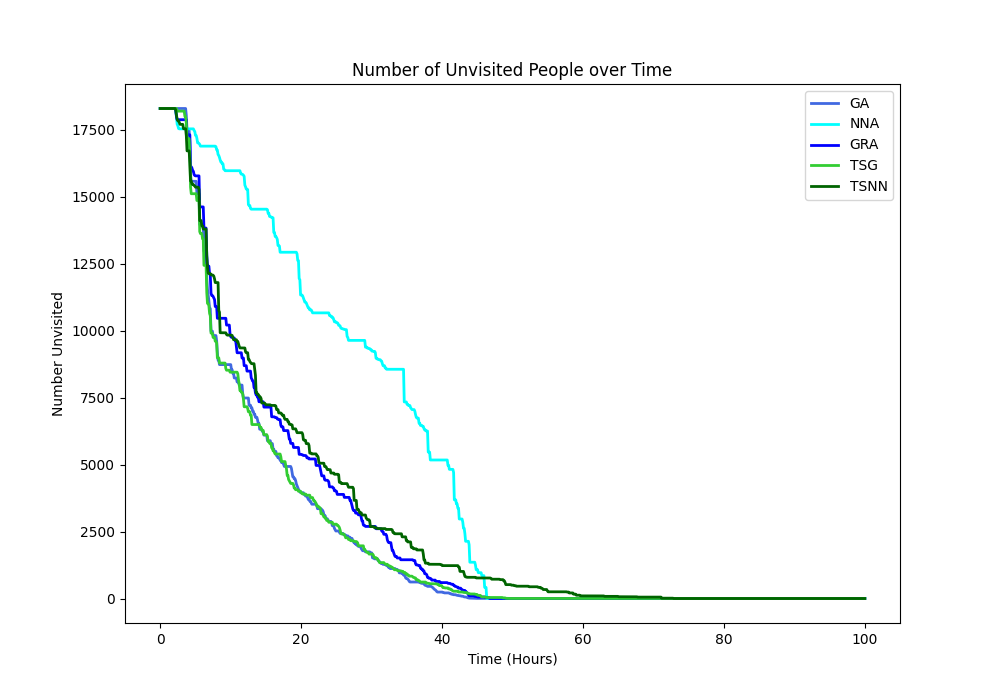
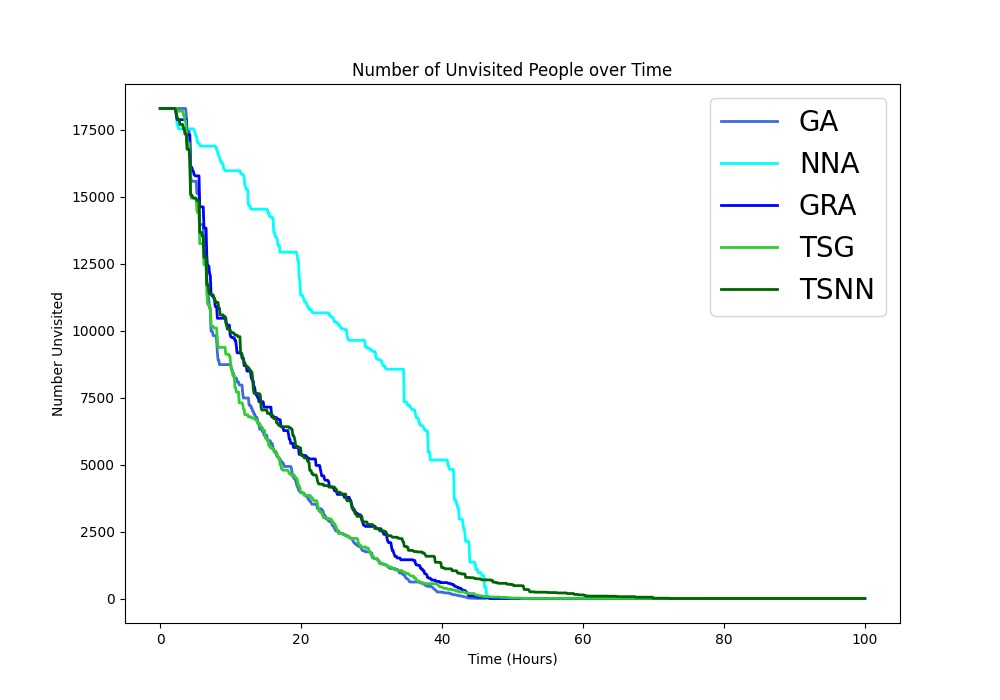
fixed champaign plot

diff --git a/champaign.py b/champaign.py
@@ -113,173 +113,173 @@ def main() -> None:
     # )
 
     # # Parameters for Graphs and Partitions
-    # num_graphs: int = 25
-    # num_nodes: int = 201  # 20 agents * 10 nodes per agent + start
+    num_graphs: int = 25
+    num_nodes: int = 201  # 20 agents * 10 nodes per agent + start
     num_agents: int = 20
 
-    # # Creating smaller graph bank
-    # graph_bank: list[Graph] = []
-    # distances: dict[tuple[int, int], float] = {}
-    # for count in range(num_graphs):
-    #     print(count)
+    # Creating smaller graph bank
+    graph_bank: list[Graph] = []
+    distances: dict[tuple[int, int], float] = {}
+    for count in range(num_graphs):
+        print(count)
 
-    #     # Choose random nodes to be damaged
-    #     g = Graph(num_nodes)
+        # Choose random nodes to be damaged
+        g = Graph(num_nodes)
 
-    #     # Initializing a bunch of empty nodes and edges is faster than calling add_edge
-    #     print("Initializing adjacency lists")
-    #     for i in range(num_nodes):  # make complete
-    #         g.adjacen_list[i] = list(range(num_nodes))
-    #     print("Initializing edge weights")
-    #     for i in range(num_nodes):
-    #         g.edge_weight[i] = [-1.0 for _ in range(num_nodes)]
+        # Initializing a bunch of empty nodes and edges is faster than calling add_edge
+        print("Initializing adjacency lists")
+        for i in range(num_nodes):  # make complete
+            g.adjacen_list[i] = list(range(num_nodes))
+        print("Initializing edge weights")
+        for i in range(num_nodes):
+            g.edge_weight[i] = [-1.0 for _ in range(num_nodes)]
 
-    #     print(f"Choosing {num_nodes} damaged nodes")
-    #     damaged: list[int] = list(populated)
-    #     random.shuffle(damaged)
-    #     damaged = damaged[:num_nodes]
-    #     print("Adding node weights to g")
-    #     for i in range(1, num_nodes):
-    #         g.node_weight[i] = G.nodes[damaged[i]]["pop"]
-    #     g.node_weight[0] = 0
+        print(f"Choosing {num_nodes} damaged nodes")
+        damaged: list[int] = list(populated)
+        random.shuffle(damaged)
+        damaged = damaged[:num_nodes]
+        print("Adding node weights to g")
+        for i in range(1, num_nodes):
+            g.node_weight[i] = G.nodes[damaged[i]]["pop"]
+        g.node_weight[0] = 0
 
-    #     print("Finding shortest path travel times in hours")
-    #     for u in range(num_nodes):
-    #         for v in range(u + 1, num_nodes):
-    #             u_prime, v_prime = damaged[u], damaged[v]
-    #             if (u_prime, v_prime) in distances:
-    #                 time = distances[(u_prime, v_prime)]
-    #             else:
-    #                 time = nx.shortest_path_length(
-    #                     G, u_prime, v_prime, weight="travel_time"
-    #                 )
-    #                 distances[(u_prime, v_prime)] = time
-    #             g.edge_weight[u][v] = time / (3600)
-    #             g.edge_weight[v][u] = time / (3600)
+        print("Finding shortest path travel times in hours")
+        for u in range(num_nodes):
+            for v in range(u + 1, num_nodes):
+                u_prime, v_prime = damaged[u], damaged[v]
+                if (u_prime, v_prime) in distances:
+                    time = distances[(u_prime, v_prime)]
+                else:
+                    time = nx.shortest_path_length(
+                        G, u_prime, v_prime, weight="travel_time"
+                    )
+                    distances[(u_prime, v_prime)] = time
+                g.edge_weight[u][v] = time / (3600)
+                g.edge_weight[v][u] = time / (3600)
 
-    #     print("Adding repair times")
-    #     # Ranges from "Predicting Outage Restoration ..."
-    #     for v in range(num_nodes):
-    #         pop: int = g.node_weight[v]
-    #         if pop <= 10:
-    #             repair_time: float = random.uniform(2, 4)
-    #         elif pop <= 100:
-    #             repair_time = random.uniform(2, 6)
-    #         elif pop <= 1000:
-    #             repair_time = random.uniform(3, 8)
-    #         else:
-    #             repair_time = random.uniform(5, 10)
-    #         for u in range(num_nodes):
-    #             if u != v:
-    #                 g.edge_weight[u][v] += repair_time
-    #     graph_bank.append(g)
-    #     print(Bcolors.CLEAR_LAST_LINE)
-    #     print(Bcolors.CLEAR_LAST_LINE)
-    #     print(Bcolors.CLEAR_LAST_LINE)
-    #     print(Bcolors.CLEAR_LAST_LINE)
-    #     print(Bcolors.CLEAR_LAST_LINE)
-    #     print(Bcolors.CLEAR_LAST_LINE)
-    #     print(Bcolors.CLEAR_LAST_LINE)
+        print("Adding repair times")
+        # Ranges from "Predicting Outage Restoration ..."
+        for v in range(num_nodes):
+            pop: int = g.node_weight[v]
+            if pop <= 10:
+                repair_time: float = random.uniform(2, 4)
+            elif pop <= 100:
+                repair_time = random.uniform(2, 6)
+            elif pop <= 1000:
+                repair_time = random.uniform(3, 8)
+            else:
+                repair_time = random.uniform(5, 10)
+            for u in range(num_nodes):
+                if u != v:
+                    g.edge_weight[u][v] += repair_time
+        graph_bank.append(g)
+        print(Bcolors.CLEAR_LAST_LINE)
+        print(Bcolors.CLEAR_LAST_LINE)
+        print(Bcolors.CLEAR_LAST_LINE)
+        print(Bcolors.CLEAR_LAST_LINE)
+        print(Bcolors.CLEAR_LAST_LINE)
+        print(Bcolors.CLEAR_LAST_LINE)
+        print(Bcolors.CLEAR_LAST_LINE)
 
-    # print("Generating initial partitions")
-    # partition_bank: list[list[set[int]]] = benchmark.generate_agent_partitions(
-    #     graph_bank, num_agents
-    # )
+    print("Generating initial partitions")
+    partition_bank: list[list[set[int]]] = benchmark.generate_agent_partitions(
+        graph_bank, num_agents
+    )
 
-    # # save a representative graph
-    # Graph.to_file(graph_bank[0], "results/champaign/champaign_rep.json")
+    # save a representative graph
+    Graph.to_file(graph_bank[0], "results/champaign/champaign_rep.json")
 
-    # # Mass benchmark of graphs given bank
-    # # (0.0, 0.5) should be a big enough range for calculated travel times
-    # benchmark_results: list[DefaultDict[Any, Any]] = benchmark.mass_benchmark(
-    #     graph_bank, partition_bank, (0.0, 0.5)
-    # )
+    # Mass benchmark of graphs given bank
+    # (0.0, 0.5) should be a big enough range for calculated travel times
+    benchmark_results: list[DefaultDict[Any, Any]] = benchmark.mass_benchmark(
+        graph_bank, partition_bank, (0.0, 0.5)
+    )
 
-    # # Write to files
-    # names: list[str] = [
-    #     "maximums",
-    #     "wait_times",
-    #     "times",
-    #     "minimums",
-    #     "sums",
-    #     "ranges",
-    #     "averages",
-    #     "bests",
-    # ]
-    # for res, name in zip(benchmark_results, names):
-    #     with open(f"results/champaign/{name}.json", "w", encoding="utf-8") as outfile:
-    #         json.dump(res, outfile)
+    # Write to files
+    names: list[str] = [
+        "maximums",
+        "wait_times",
+        "times",
+        "minimums",
+        "sums",
+        "ranges",
+        "averages",
+        "bests",
+    ]
+    for res, name in zip(benchmark_results, names):
+        with open(f"results/champaign/{name}.json", "w", encoding="utf-8") as outfile:
+            json.dump(res, outfile)
 
-    # # Box Plot for sum of weighted latencies
-    # with open("results/champaign/sums.json", encoding="utf-8") as file:
-    #     sums: dict[str, list[float]] = json.load(file)
+    # Box Plot for sum of weighted latencies
+    with open("results/champaign/sums.json", encoding="utf-8") as file:
+        sums: dict[str, list[float]] = json.load(file)
 
-    # results: list[str] = [
-    #     "Greedy Assignment",
-    #     "Nearest Neighbor Assignment",
-    #     "Greedy + Random (25%) Assignment",
-    #     "Transfers and Swaps Greedy",
-    #     "Transfers and Swaps Nearest Neighbor",
-    # ]
+    results: list[str] = [
+        "Greedy Assignment",
+        "Nearest Neighbor Assignment",
+        "Greedy + Random (25%) Assignment",
+        "Transfers and Swaps Greedy",
+        "Transfers and Swaps Nearest Neighbor",
+    ]
 
-    # boxes: list[list[float]] = [sums[name] for name in results]
-    # colors: list[str] = ["royalblue", "aqua", "blue", "limegreen", "darkgreen"]
+    boxes: list[list[float]] = [sums[name] for name in results]
+    colors: list[str] = ["royalblue", "aqua", "blue", "limegreen", "darkgreen"]
 
-    # fig, ax = plt.subplots(figsize=(6, 6))
+    fig, ax = plt.subplots(figsize=(6, 6))
 
-    # bp = ax.boxplot(boxes, patch_artist=True)
-    # for patch, color in zip(bp["boxes"], colors):
-    #     patch.set_facecolor(color)
-    # for median in bp["medians"]:
-    #     median.set(color="black", linewidth=3)
+    bp = ax.boxplot(boxes, patch_artist=True)
+    for patch, color in zip(bp["boxes"], colors):
+        patch.set_facecolor(color)
+    for median in bp["medians"]:
+        median.set(color="black", linewidth=3)
 
-    # frame1 = plt.gca()
-    # frame1.axes.xaxis.set_ticklabels(["GA", "NNA", "GRA", "TSG", "TSNN"])
-    # plt.title("Sum of Weighted Latencies (Champaign)")
-    # plt.gcf().axes[0].yaxis.get_major_formatter().set_scientific(False)
-    # fig.savefig("results/champaign/total_work", bbox_inches="tight")
+    frame1 = plt.gca()
+    frame1.axes.xaxis.set_ticklabels(["GA", "NNA", "GRA", "TSG", "TSNN"])
+    plt.title("Sum of Weighted Latencies (Champaign)")
+    plt.gcf().axes[0].yaxis.get_major_formatter().set_scientific(False)
+    fig.savefig("results/champaign/total_work", bbox_inches="tight")
 
-    # # Bar Plot for average wait times
-    # with open("results/champaign/wait_times.json", encoding="utf-8") as file:
-    #     wait: dict[str, list[float]] = json.load(file)
+    # Bar Plot for average wait times
+    with open("results/champaign/wait_times.json", encoding="utf-8") as file:
+        wait: dict[str, list[float]] = json.load(file)
 
-    # boxes = [wait[name] for name in results]
-    # colors = ["royalblue", "aqua", "blue", "limegreen", "darkgreen"]
+    boxes = [wait[name] for name in results]
+    colors = ["royalblue", "aqua", "blue", "limegreen", "darkgreen"]
 
-    # fig, ax = plt.subplots(figsize=(6, 6))
+    fig, ax = plt.subplots(figsize=(6, 6))
 
-    # bp = ax.boxplot(boxes, patch_artist=True)
-    # for patch, color in zip(bp["boxes"], colors):
-    #     patch.set_facecolor(color)
-    # for median in bp["medians"]:
-    #     median.set(color="black", linewidth=3)
+    bp = ax.boxplot(boxes, patch_artist=True)
+    for patch, color in zip(bp["boxes"], colors):
+        patch.set_facecolor(color)
+    for median in bp["medians"]:
+        median.set(color="black", linewidth=3)
 
-    # frame1 = plt.gca()
-    # frame1.axes.xaxis.set_ticklabels(["GA", "NNA", "GRA", "TSG", "TSNN"])
-    # plt.title("Average Wait Time (Champaign)")
-    # plt.gcf().axes[0].yaxis.get_major_formatter().set_scientific(False)
-    # fig.savefig("results/champaign/wait_time", bbox_inches="tight")
+    frame1 = plt.gca()
+    frame1.axes.xaxis.set_ticklabels(["GA", "NNA", "GRA", "TSG", "TSNN"])
+    plt.title("Average Wait Time (Champaign)")
+    plt.gcf().axes[0].yaxis.get_major_formatter().set_scientific(False)
+    fig.savefig("results/champaign/wait_time", bbox_inches="tight")
 
-    # # Bar Plot for ranges
-    # with open("results/champaign/ranges.json", encoding="utf-8") as file:
-    #     ranges: dict[str, list[float]] = json.load(file)
+    # Bar Plot for ranges
+    with open("results/champaign/ranges.json", encoding="utf-8") as file:
+        ranges: dict[str, list[float]] = json.load(file)
 
-    # boxes = [ranges[name] for name in results]
-    # colors = ["royalblue", "aqua", "blue", "limegreen", "darkgreen"]
+    boxes = [ranges[name] for name in results]
+    colors = ["royalblue", "aqua", "blue", "limegreen", "darkgreen"]
 
-    # fig, ax = plt.subplots(figsize=(6, 6))
+    fig, ax = plt.subplots(figsize=(6, 6))
 
-    # bp = ax.boxplot(boxes, patch_artist=True)
-    # for patch, color in zip(bp["boxes"], colors):
-    #     patch.set_facecolor(color)
-    # for median in bp["medians"]:
-    #     median.set(color="black", linewidth=3)
+    bp = ax.boxplot(boxes, patch_artist=True)
+    for patch, color in zip(bp["boxes"], colors):
+        patch.set_facecolor(color)
+    for median in bp["medians"]:
+        median.set(color="black", linewidth=3)
 
-    # frame1 = plt.gca()
-    # frame1.axes.xaxis.set_ticklabels(["GA", "NNA", "GRA", "TSG", "TSNN"])
-    # plt.title("Range of Weighted Latencies (Champaign)")
-    # plt.gcf().axes[0].yaxis.get_major_formatter().set_scientific(False)
-    # fig.savefig("results/champaign/ranges", bbox_inches="tight")
+    frame1 = plt.gca()
+    frame1.axes.xaxis.set_ticklabels(["GA", "NNA", "GRA", "TSG", "TSNN"])
+    plt.title("Range of Weighted Latencies (Champaign)")
+    plt.gcf().axes[0].yaxis.get_major_formatter().set_scientific(False)
+    fig.savefig("results/champaign/ranges", bbox_inches="tight")
 
     g = Graph.from_file("results/champaign/champaign_rep.json")
 

diff --git a/benchmark.py b/benchmark.py
@@ -693,7 +693,7 @@ def line_plot(
         lines.append(line)
 
     mplcursors.cursor(lines, highlight=True)
-    plt.legend(prop={'size': 6})
+    plt.legend(prop={'size': 20})
     figure = plt.gcf()
     figure.set_size_inches(10, 7)  # horizontal x vertical
     plt.title("Number of Unvisited People over Time")
